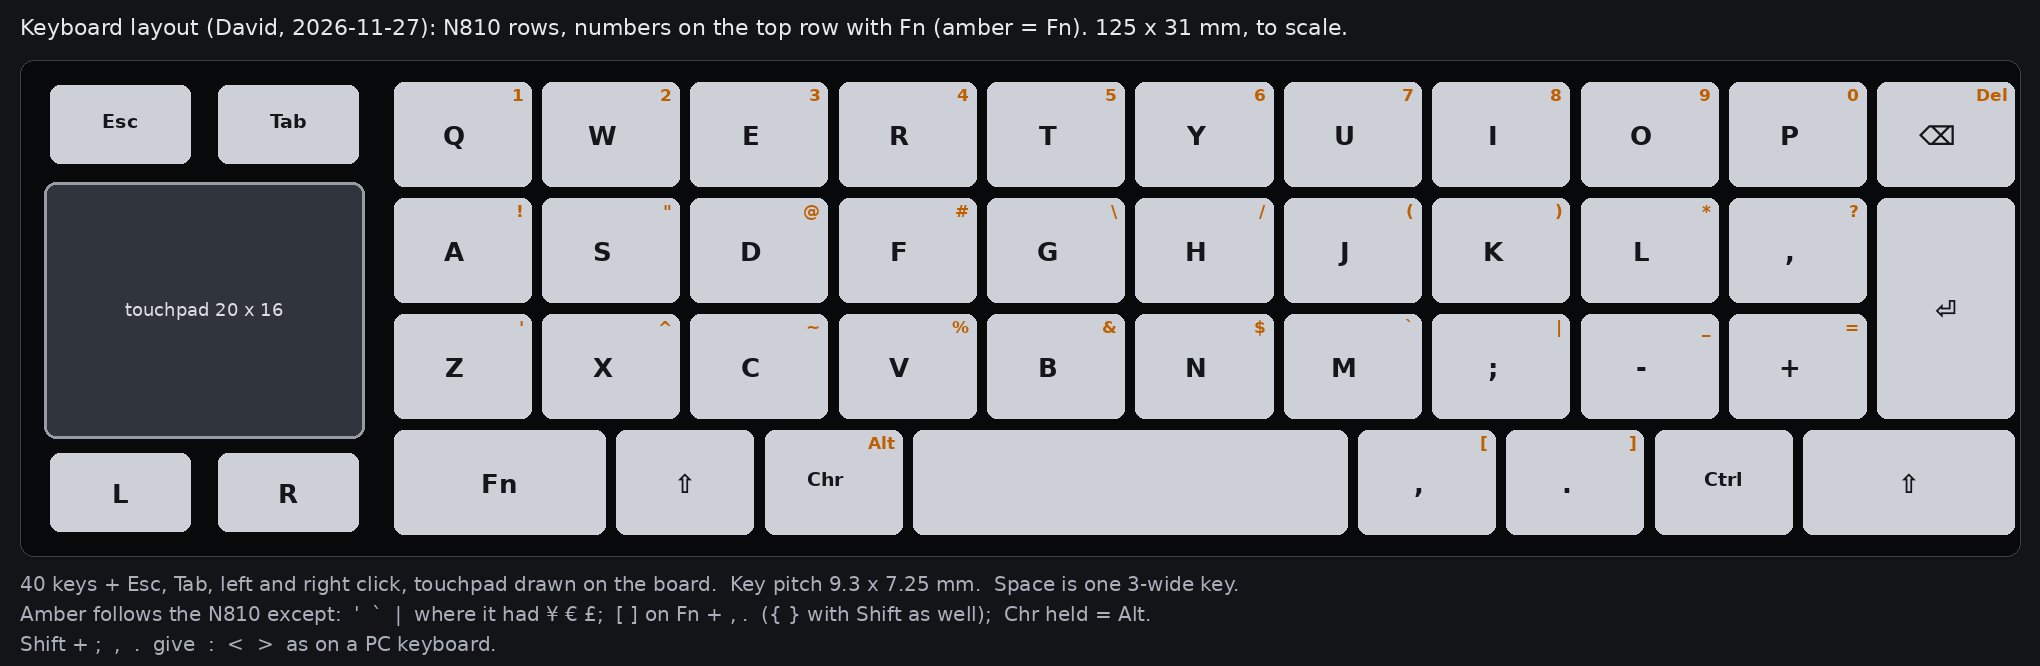
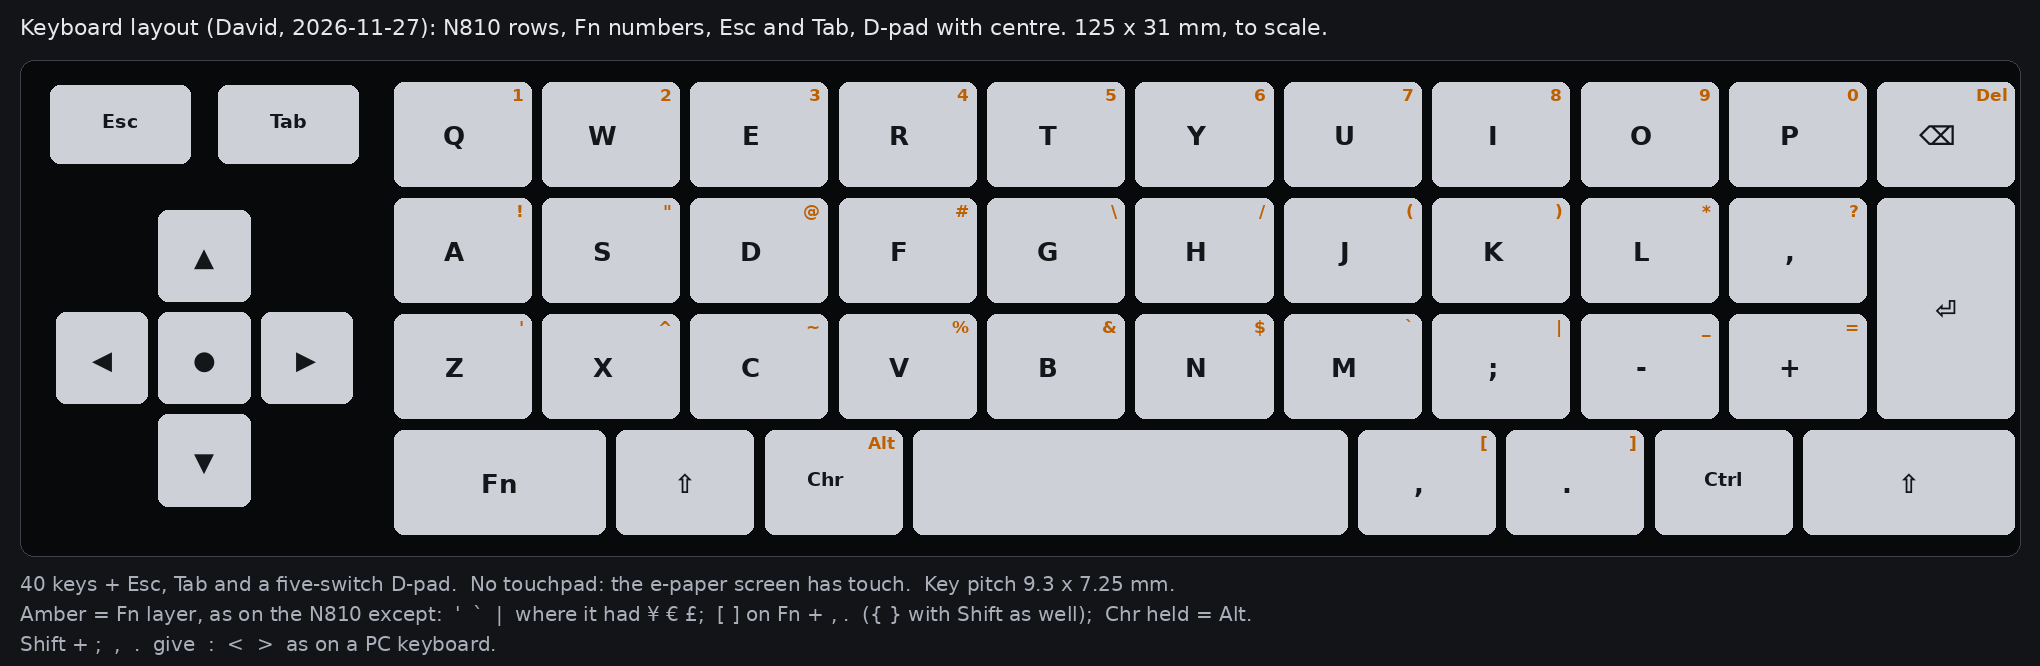
Keyboard: D-pad with centre in place of the touchpad; the screen has touch
Claude-Session: https://claude.ai/code/session_018uNDFPcsX4bnT2cwNcm3Ky

Changed region(s): [[0.0, 0.2703, 0.1853, 0.8108], [0.0309, 0.8709, 0.6176, 0.9309], [0.2779, 0.03, 0.6794, 0.0601]]

diff --git a/docs/keyboard.md b/docs/keyboard.md
@@ -47,10 +47,10 @@ the scanner should report. The Fn-layer characters are on the top plate.
   `,` `.`, Ctrl, Shift. No number row: digits are Fn + the top row. Key pitch 9.3 x 7.25 mm.
 - Fn layer as on the N810, with `'`, `` ` `` and `|` where it had the three currency signs; `[` `]` on Fn + `,` `.`
   (`{` `}` with Shift as well); Chr held is Alt. Shift + `;` `,` `.` give `:` `<` `>`.
-- Left end: Esc and Tab, a capacitive touchpad drawn on the board (Azoteq IQS7211E, I2C, mainline driver
-  `iqs7211.c`; about 20 x 16 mm under a solid 1.5-2 mm overlay) and left and right click below it. The D-pad goes.
-  No joystick, trackball or optical sensor was found that fits the 2.6 mm above the board and is in stock.
-- The touchpad needs a second interrupt line to the carrier, so the cable grows from 8 to 9 or 10 ways.
+- Left end (David, 2026-11-27, for the hack pad): Esc and Tab above a D-pad of five flat switches: up, down, left,
+  right and centre. No touchpad and no click buttons: the e-paper screen has touch, and a cursor is of little use
+  on a display that redraws every 0.4 s. No trackball is in stock anywhere that was searched, and the analog
+  thumbsticks that are stand 10-17 mm tall.
 
 The boards in the repository still carry the layout below.
 

diff --git a/docs/decisions/0009-hack-pad.md b/docs/decisions/0009-hack-pad.md
@@ -45,6 +45,9 @@ set by the Linux-class processor.
 - **Name (David, 2026-11-27):** the operating system is **HackOS**. It gets its own repository, and the Adder
   compiler work for this chip gets its own repository too, separate from the existing Adder and Hamnix ones.
 
+- **Pointing (David, 2026-11-27):** the display's touch panel, and a D-pad with a centre key on the keyboard.
+  The touchpad and its chip are dropped.
+
 ## What carries over from the Linux design
 
 The slider body and its rails, travel stop and hooks; the thumb keyboard with its next layout (N810 rows, Fn
